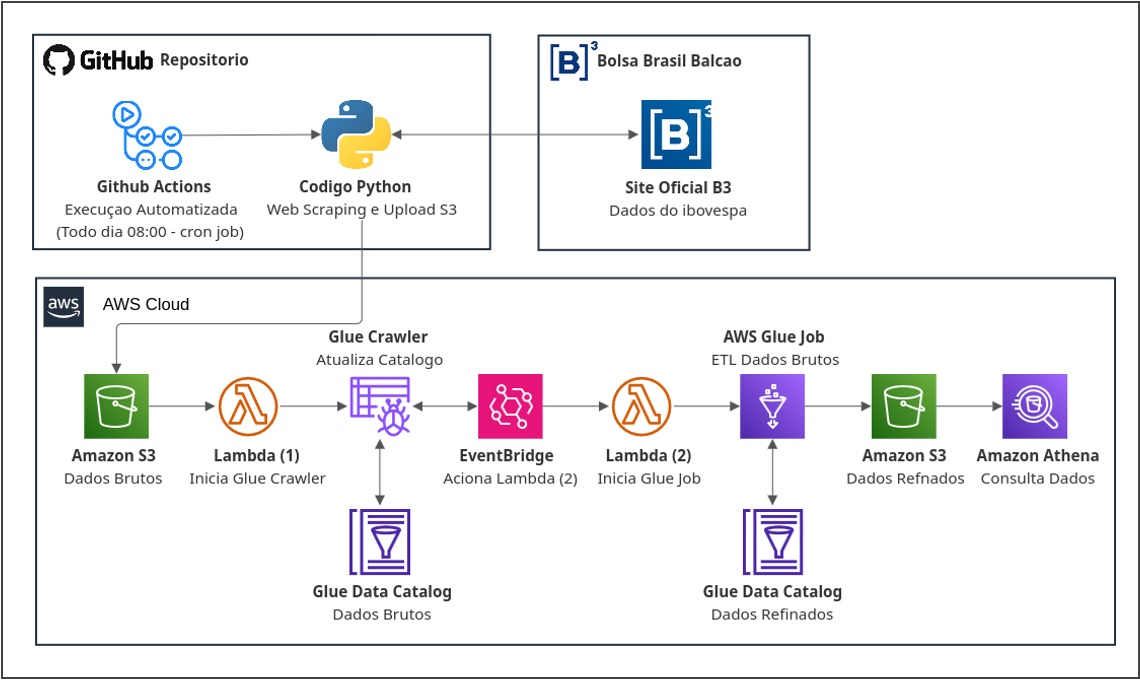
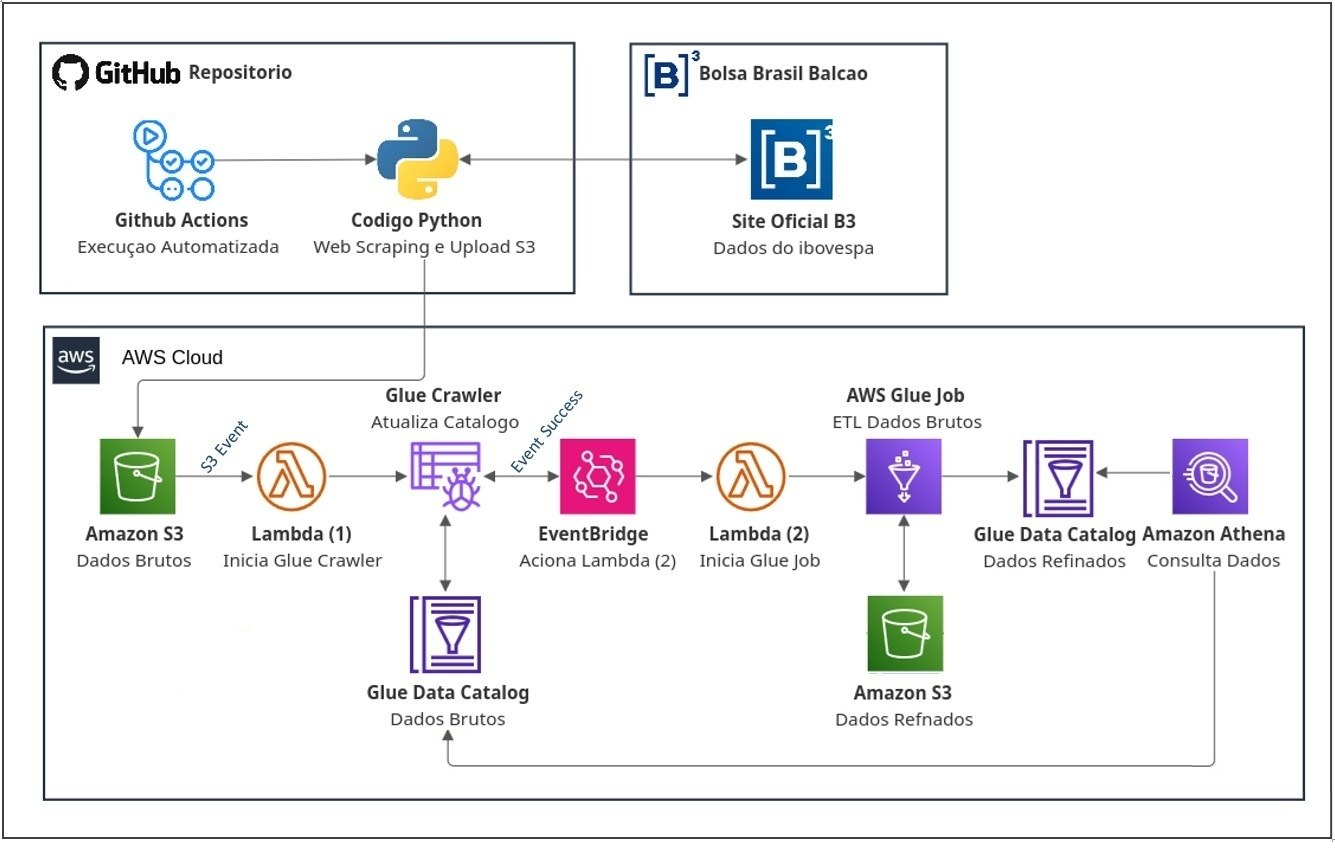
Acrescentada a pasta img na estrutura da documentação e o arquivo de arquitetura atualizado.

Changed region(s): [[0.0, 0.0, 1.0, 1.0], [0.3991, 0.0309, 0.4298, 0.0618], [0.0, 0.0, 0.0307, 0.0309]]

diff --git a/README.md b/README.md
@@ -78,15 +78,17 @@ Clone o repositório e observe a seguinte estrutura:
 5mlet_tc_02/
 ├── .github/
 │   └── workflows/
-│       └── scraping-b3.yml     # Workflow do GitHub Actions
+│       └── scraping-b3.yml      # Workflow do GitHub Actions
 ├── data/ 
-│   └── raw/                    # Diretório local temporário para arquivos brutos 
-├── scraping_b3.py              # Script principal de scraping
-├── requirements.txt            # Dependências Python
-├── .env.example                # Modelo de variáveis de ambiente
-├── .gitignore                  # Arquivos ignorados pelo Git
+│   └── raw/                     # Diretório local temporário para arquivos brutos 
+├── img/ 
+│   └── arquitetura_pipeline.jpg # Desenho da arquitetura do pipeline 
+├── scraping_b3.py               # Script principal de scraping
+├── requirements.txt             # Dependências Python
+├── .env.example                 # Modelo de variáveis de ambiente
+├── .gitignore                   # Arquivos ignorados pelo Git
 ├── README.md  
-└── pipeline_ibovespa_AWS.mp4   # Vídeo de demonstração                  
+└── pipeline_ibovespa_AWS.mp4    # Vídeo de demonstração                  
 ```
 
 ### 🏃 Executando o Pipeline
